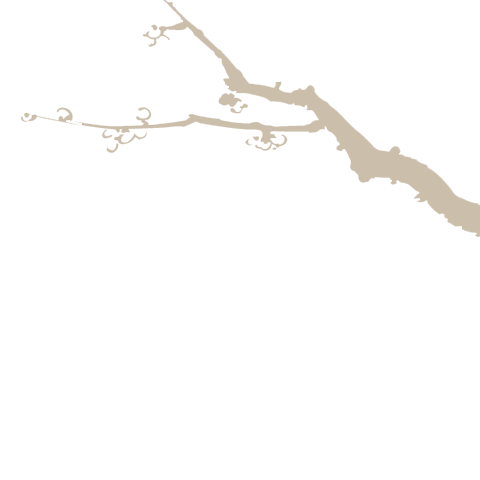
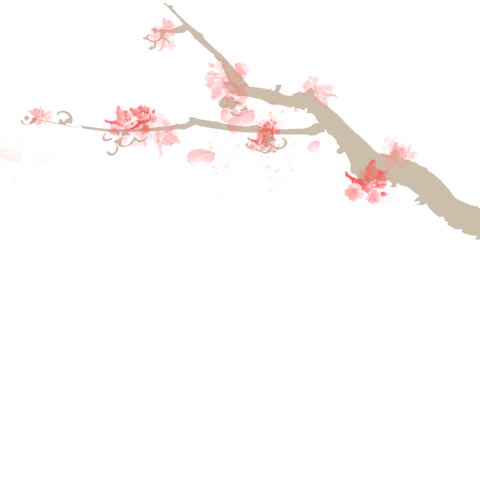
【功能】封装 ondraw 函数, 并重新实现首页布局

diff --git a/game.js b/game.js
@@ -20,8 +20,183 @@ let ScreenSize = {
 // 背景音乐
 let backgroundMusic = new Music()
 
+let logoImage = wx.createImage()
+logoImage.src = 'sources/image/wenqianLogo.png'
+
+let logoSize = 300
+let logoRect = {
+  left: (ScreenSize.width - logoSize) / 2,
+  top: (ScreenSize.height - logoSize) / 2 - 100,
+  width: logoSize,
+  height: logoSize
+}
+
+let titleColor = '#6f6351'
+
+
+let buttonLeft = ScreenSize.width * 0.2
+let buttonRect = {
+  top: ScreenSize.height - 200,
+  left: buttonLeft,
+  width: 162,
+  height: 80
+}
+
+let buttonBackgroundImage = wx.createImage()
+buttonBackgroundImage.src = 'sources/image/buttonBackground.png'
+
+let historyImage = wx.createImage()
+historyImage.src = 'sources/image/watchHistory.png'
+
+let destinyImage = wx.createImage()
+destinyImage.src = 'sources/image/requireDestiny.png'
+
+let redDotImage = wx.createImage()
+redDotImage.src = 'sources/image/redDot.png'
+
+let redDotSize = 30
+let redDotRect = {
+  width: redDotSize,
+  height: redDotSize,
+  left: (ScreenSize.width - redDotSize) / 2,
+  top: ScreenSize.height - 175
+}
+
+let branchImage = wx.createImage()
+branchImage.src = 'sources/image/branch.png'
+
+let branchSize = 480
+let branchRect = {
+  width: branchSize,
+  height: branchSize,
+  left: ScreenSize.width,
+  top: 30
+}
+
+let leafImage = wx.createImage()
+leafImage.src = 'sources/image/leaf.png'
+let leafSize = 66
+
+var branchMoveX = 0
+
+var leafY = 0
+var leafX = 0
+
 // 主界面
-new Main(canvas, ScreenSize)
+new Main(canvas, function(context, animation) {
+
+  drawBackground(context)
+  // 画 Logo
+  context.drawImage(
+    logoImage, 
+    logoRect.left, 
+    logoRect.top, 
+    logoRect.width, 
+    logoRect.height)
+  drawDescriptionText(context)
+
+  // 画按钮的背景笔墨
+  context.drawImage(
+    buttonBackgroundImage, 
+    buttonRect.left, 
+    buttonRect.top, 
+    buttonRect.width, 
+    buttonRect.height)
+
+  // 画寻史按钮
+  context.drawImage(
+    historyImage,
+    buttonRect.left,
+    buttonRect.top,
+    buttonRect.width,
+    buttonRect.height)
+
+  // 画求签的背景笔墨
+  context.drawImage(
+    buttonBackgroundImage,
+    ScreenSize.width - buttonLeft - buttonRect.width,
+    buttonRect.top,
+    buttonRect.width,
+    buttonRect.height)
+
+  // 画求签按钮
+  context.drawImage(
+    destinyImage,
+    ScreenSize.width - buttonLeft - buttonRect.width,
+    buttonRect.top,
+    buttonRect.width,
+    buttonRect.height)  
+
+  // 画按钮之间的红色小点
+  context.drawImage(
+    redDotImage,
+    redDotRect.left,
+    redDotRect.top,
+    redDotRect.width,
+    redDotRect.height
+  )
+
+  // 画树枝并做动画
+  branchMoveX += 5
+  context.drawImage(
+    branchImage,
+    branchRect.left - branchMoveX,
+    branchRect.top,
+    branchRect.width,
+    branchRect.height
+  )
+  if (branchMoveX >= branchSize) {
+    branchMoveX = branchSize
+    fallingLeaf()
+  }
+
+  function fallingLeaf() {
+    leafX += 1
+    leafY += 1
+    context.drawImage(
+      leafImage,
+      300 + leafX,
+      100 + leafY,
+      leafSize,
+      leafSize
+    )
+    if (leafY >= ScreenSize.height || leafX >= ScreenSize.width) {
+      leafY = 0
+      leafX = 0
+    }
+  }
+
+})
+
+function drawBackground(context) {
+  var gradient = context.createLinearGradient(0, 0, ScreenSize.width, ScreenSize.height)
+  gradient.addColorStop(0, '#dbd8d5')
+  gradient.addColorStop(0.5, '#ffffff')
+  gradient.addColorStop(1, '#eae8e6')
+
+  context.fillStyle = gradient
+  context.fillRect(0, 0, ScreenSize.width, ScreenSize.height)
+}
+
+function drawDescriptionText(context) {
+  context.fillStyle = titleColor
+  context.font = '24px avenir'
+  context.textBaseline = 'middle'
+  context.textAlign = 'center'
+  context.fillText(
+    'they determined that Cloyd had ovarian cysts',
+    ScreenSize.width / 2,
+    (ScreenSize.height + logoSize) / 2 - 50,
+    ScreenSize.width
+  )
+
+  context.fillText(
+    'gave her pain medications that helped her feel better',
+    ScreenSize.width / 2,
+    (ScreenSize.height + logoSize) / 2 - 50 + 36,
+    ScreenSize.width
+  )
+}
 
 // 后台恢复前台后继续播放背景音乐
 wx.onShow(function () {

diff --git a/module/home/home.js b/module/home/home.js
@@ -3,34 +3,20 @@
 * @date 2018-01-30
 */
 
-import Button from '../../common/homeButton'
-import LogoView from '../../common/homeLogoView'
-import CustomImage from '../../util/customImage'
-
-let redDotSize = 30
-let branchSize = 480
-
 export default class Main {
-  constructor(canvas, screenSize) {
-    this.context = canvas.getContext('2d')
-    this.logoView = new LogoView(screenSize, this.context)
-    this.watchHistoryButton = new Button(screenSize, this.context).initHistoryButton()
-    this.watchHistoryButton = new Button(screenSize, this.context).initDestinyButton()
+  constructor(canvas, onDraw) {
+    this.drawFrame(canvas, onDraw)
+  }
 
-    this.branchRect = {
-      width: branchSize,
-      height: branchSize,
-      left: screenSize.width - branchSize,
-      top: 30
+  drawFrame(canvas, onDraw) {
+    let context = canvas.getContext('2d')
+    drawDetail()
+    function drawDetail() {
+      let animation = requestAnimationFrame(drawDetail)
+      if (typeof onDraw === 'function') {
+        context.clearRect(0, 0, canvas.width, canvas.height)
+        onDraw(context, animation)
+      }
     }
-    new CustomImage(this.context, this.branchRect).drawBranch()
-
-    this.redDotRect = {
-      width: redDotSize,
-      height: redDotSize,
-      left: (screenSize.width - redDotSize) / 2,
-      top: screenSize.height - 175
-    }
-    new CustomImage(this.context, this.redDotRect).drawRedDot()
   }
 }

diff --git a/util/music.js b/util/music.js
@@ -17,7 +17,7 @@ export default class Music {
 
     this.backgroundMusic = wx.createInnerAudioContext()
     this.backgroundMusic.loop = true
-    this.backgroundMusic.src = 'sources/audio/bgm.mp3'
+    // this.backgroundMusic.src = 'sources/audio/bgm.mp3'
 
     this.playBackgroundMusic()
   }
